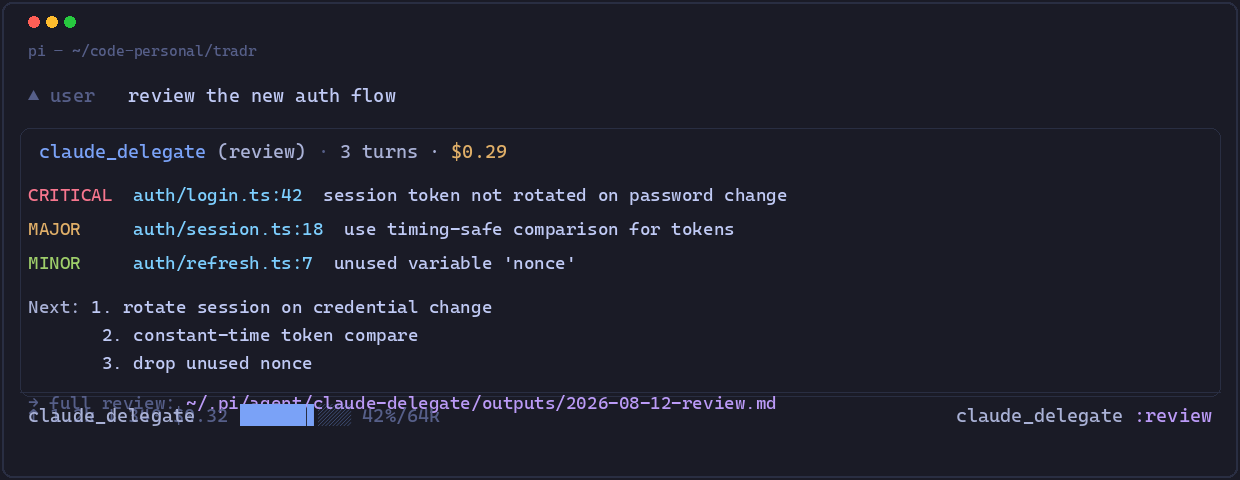
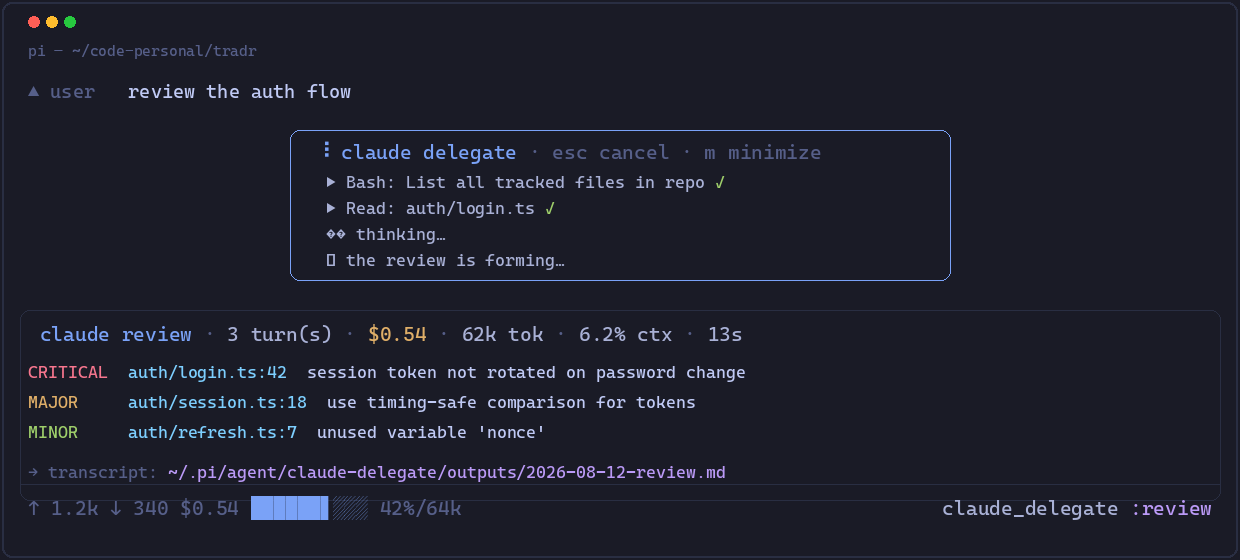
0.5.2: extract + test metrics/report/transcript-meta formatting; refresh Pages hero image (progress window + metrics)

diff --git a/extensions/index.ts b/extensions/index.ts
@@ -38,7 +38,16 @@ import { delegationHint, stripMarker } from "./hint.ts";
 import { progressWindow } from "./progress.ts";
 import { loadTemplates, type DelegateTemplate } from "./templates.ts";
 import { mapClaudeUsage } from "./usage.ts";
-import { buildTranscript, collectActivityLog, formatToolUse, pruneOutputs, safeSegmentName } from "./activity.ts";
+import {
+	buildReportContent,
+	buildTranscript,
+	collectActivityLog,
+	formatMetrics,
+	formatToolUse,
+	parseTranscriptMeta,
+	pruneOutputs,
+	safeSegmentName,
+} from "./activity.ts";
 import type { ActivityEvent } from "./stream-parse.ts";
 
 interface DelegateConfig {
@@ -203,13 +212,10 @@ function readHistory(dir: string): HistoryEntry[] {
 				let cost = 0;
 				let sessionId: string | null = null;
 				try {
-					const head = readFileSync(file, "utf8").slice(0, 2000);
-					const mm = /^# Delegated Claude run — (.+)$/m.exec(head);
-					if (mm) mode = mm[1];
-					const cm = /\bcost: \$([\d.]+)/.exec(head);
-					if (cm) cost = Number(cm[1]);
-					const sm = /\bsession: ([0-9a-f-]+)/.exec(head);
-					if (sm) sessionId = sm[1];
+					const meta = parseTranscriptMeta(readFileSync(file, "utf8").slice(0, 2000));
+					mode = meta.mode;
+					cost = meta.cost;
+					sessionId = meta.sessionId;
 				} catch {
 					// unreadable — keep defaults
 				}
@@ -524,13 +530,8 @@ function injectReport(
 	_ctx: ExtensionContext,
 	opts: { mode: string; metrics: string; body: string; file?: string; sessionId?: string },
 ): void {
-	const header = `## claude ${opts.mode} (${opts.metrics})`;
-	const foot: string[] = [];
-	if (opts.file) foot.push(`transcript: ${opts.file}`);
-	if (opts.sessionId) foot.push(`resume: \`/claude --resume=${opts.sessionId} <prompt>\``);
-	const content = [header, "", opts.body, foot.length > 0 ? `\n_${foot.join(" · ")}_` : ""].join("\n");
 	pendingReport = {
-		content,
+		content: buildReportContent(opts),
 		details: { mode: opts.mode, file: opts.file, sessionId: opts.sessionId, metrics: opts.metrics },
 	};
 }
@@ -914,17 +915,13 @@ export default function (pi: ExtensionAPI) {
 			const promptTokens = usage
 				? (usage.inputTokens ?? 0) + (usage.cacheCreationInputTokens ?? 0) + (usage.cacheReadInputTokens ?? 0)
 				: 0;
-			const metrics = [
-				`${(details.numTurns as number) ?? 0} turn(s)`,
-				`$${((details.totalCostUsd as number) ?? 0).toFixed(3)}`,
-				promptTokens > 0 ? `${Math.round(promptTokens / 1000)}k tok` : null,
-				typeof details.contextPercent === "number" ? `${(details.contextPercent as number).toFixed(1)}% ctx` : null,
-				typeof details.durationMs === "number" && details.durationMs !== null
-					? `${((details.durationMs as number) / 1000).toFixed(0)}s`
-					: null,
-			]
-				.filter((p): p is string => Boolean(p))
-				.join(" · ");
+			const metrics = formatMetrics({
+				numTurns: (details.numTurns as number) ?? 0,
+				totalCostUsd: (details.totalCostUsd as number) ?? 0,
+				promptTokens,
+				contextPercent: typeof details.contextPercent === "number" ? (details.contextPercent as number) : null,
+				durationMs: typeof details.durationMs === "number" && details.durationMs !== null ? (details.durationMs as number) : null,
+			});
 
 			// inject the report into the session so the main agent consumes it
 			// on its next turn (participates in LLM context; full text in the file)

diff --git a/extensions/activity.ts b/extensions/activity.ts
@@ -12,6 +12,55 @@ export function safeSegmentName(name: string): string {
 	return safe.length > 0 ? safe : "delegate";
 }
 
+export interface MetricsInput {
+	numTurns: number;
+	totalCostUsd: number;
+	promptTokens: number;
+	contextPercent: number | null;
+	durationMs: number | null;
+}
+
+/** Compact run summary: `3 turn(s) · $0.54 · 62k tok · 6.2% ctx · 12s`. */
+export function formatMetrics(m: MetricsInput): string {
+	const parts: Array<string | null> = [
+		`${m.numTurns} turn(s)`,
+		`$${m.totalCostUsd.toFixed(3)}`,
+		m.promptTokens > 0 ? `${Math.round(m.promptTokens / 1000)}k tok` : null,
+		typeof m.contextPercent === "number" ? `${m.contextPercent.toFixed(1)}% ctx` : null,
+		typeof m.durationMs === "number" && m.durationMs !== null ? `${(m.durationMs / 1000).toFixed(0)}s` : null,
+	];
+	return parts.filter((p): p is string => Boolean(p)).join(" · ");
+}
+
+/** Parse the metadata header of a transcript file (without loading the whole body). */
+export function parseTranscriptMeta(head: string): { mode: string; cost: number; sessionId: string | null } {
+	let mode = "delegate";
+	let cost = 0;
+	let sessionId: string | null = null;
+	const mm = /^# Delegated Claude run — (.+)$/m.exec(head);
+	if (mm) mode = mm[1];
+	const cm = /\bcost: \$([\d.]+)/.exec(head);
+	if (cm) cost = Number(cm[1]);
+	const sm = /\bsession: ([0-9a-f-]+)/.exec(head);
+	if (sm) sessionId = sm[1];
+	return { mode, cost, sessionId };
+}
+
+/** Build the markdown report content injected into the session on the next turn. */
+export function buildReportContent(opts: {
+	mode: string;
+	metrics: string;
+	body: string;
+	file?: string;
+	sessionId?: string;
+}): string {
+	const header = `## claude ${opts.mode} (${opts.metrics})`;
+	const foot: string[] = [];
+	if (opts.file) foot.push(`transcript: ${opts.file}`);
+	if (opts.sessionId) foot.push(`resume: \`/claude --resume=${opts.sessionId} <prompt>\``);
+	return [header, "", opts.body, foot.length > 0 ? `\n_${foot.join(" · ")}_` : ""].join("\n");
+}
+
 /** Delete oldest transcript files beyond `maxCount` (0 = keep everything). */
 export function pruneOutputs(dir: string, maxCount: number): void {
 	if (maxCount <= 0) return;

diff --git a/tests/metrics.test.ts b/tests/metrics.test.ts
@@ -1,0 +1,56 @@
+import { test } from "node:test";
+import assert from "node:assert/strict";
+import { buildReportContent, formatMetrics, parseTranscriptMeta } from "../extensions/activity.ts";
+
+test("formatMetrics includes all fields", () => {
+	assert.equal(
+		formatMetrics({ numTurns: 3, totalCostUsd: 0.5432, promptTokens: 62000, contextPercent: 6.2, durationMs: 12500 }),
+		"3 turn(s) · $0.543 · 62k tok · 6.2% ctx · 13s",
+	);
+});
+
+test("formatMetrics omits unknown fields", () => {
+	assert.equal(formatMetrics({ numTurns: 1, totalCostUsd: 0.5, promptTokens: 0, contextPercent: null, durationMs: null }), "1 turn(s) · $0.500");
+});
+
+test("parseTranscriptMeta extracts mode, cost, session", () => {
+	const head = [
+		"# Delegated Claude run — review",
+		"",
+		"- mode: review",
+		"- cost: $0.7244 · isError: false",
+		"- session: b2125252-aaaa-bbbb-cccc-dddddddddddd",
+		"",
+		"## Activity",
+	].join("\n");
+	assert.deepEqual(parseTranscriptMeta(head), {
+		mode: "review",
+		cost: 0.7244,
+		sessionId: "b2125252-aaaa-bbbb-cccc-dddddddddddd",
+	});
+});
+
+test("parseTranscriptMeta defaults on unparseable head", () => {
+	assert.deepEqual(parseTranscriptMeta("garbage"), { mode: "delegate", cost: 0, sessionId: null });
+	assert.deepEqual(parseTranscriptMeta(""), { mode: "delegate", cost: 0, sessionId: null });
+});
+
+test("buildReportContent assembles header, body and footers", () => {
+	const content = buildReportContent({
+		mode: "review",
+		metrics: "3 turn(s) · $0.543",
+		body: "Findings…",
+		file: "/tmp/out.md",
+		sessionId: "abc-123",
+	});
+	assert.ok(content.startsWith("## claude review (3 turn(s) · $0.543)"));
+	assert.ok(content.includes("Findings…"));
+	assert.ok(content.includes("transcript: /tmp/out.md"));
+	assert.ok(content.includes("resume: `/claude --resume=abc-123 <prompt>`"));
+});
+
+test("buildReportContent omits footers when absent", () => {
+	const content = buildReportContent({ mode: "review", metrics: "1 turn(s)", body: "x" });
+	assert.ok(!content.includes("transcript"));
+	assert.ok(!content.includes("resume"));
+});
